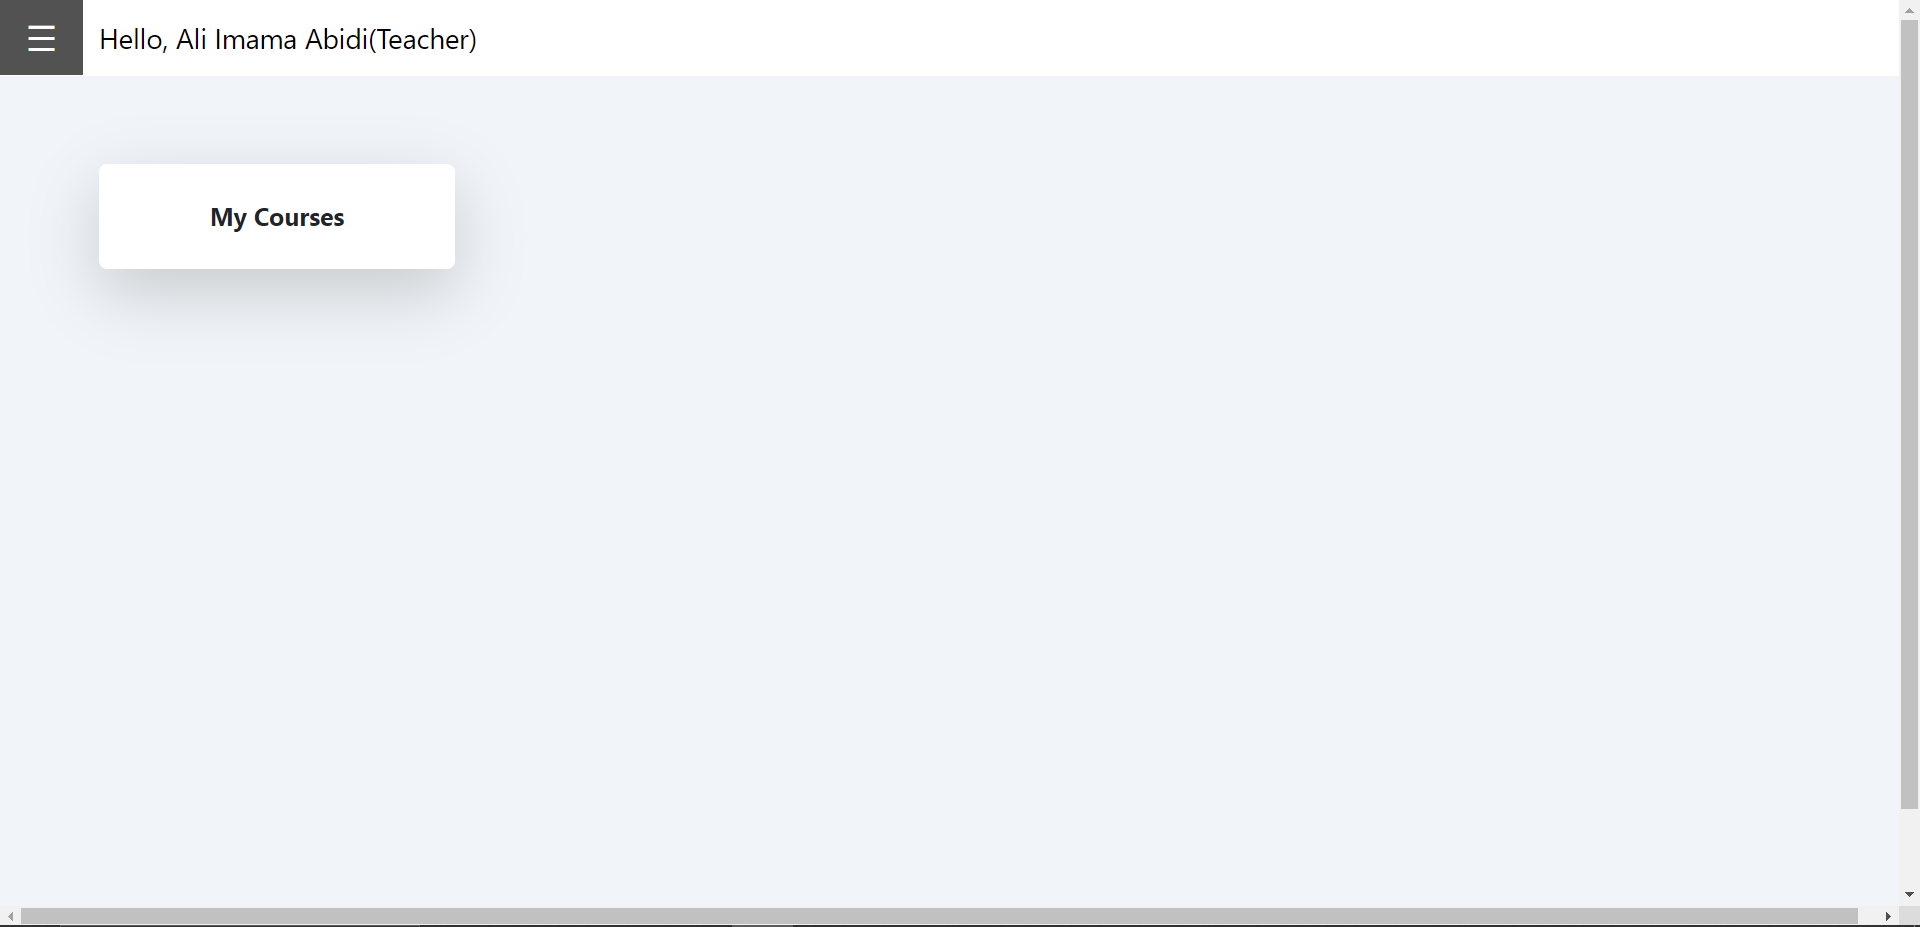
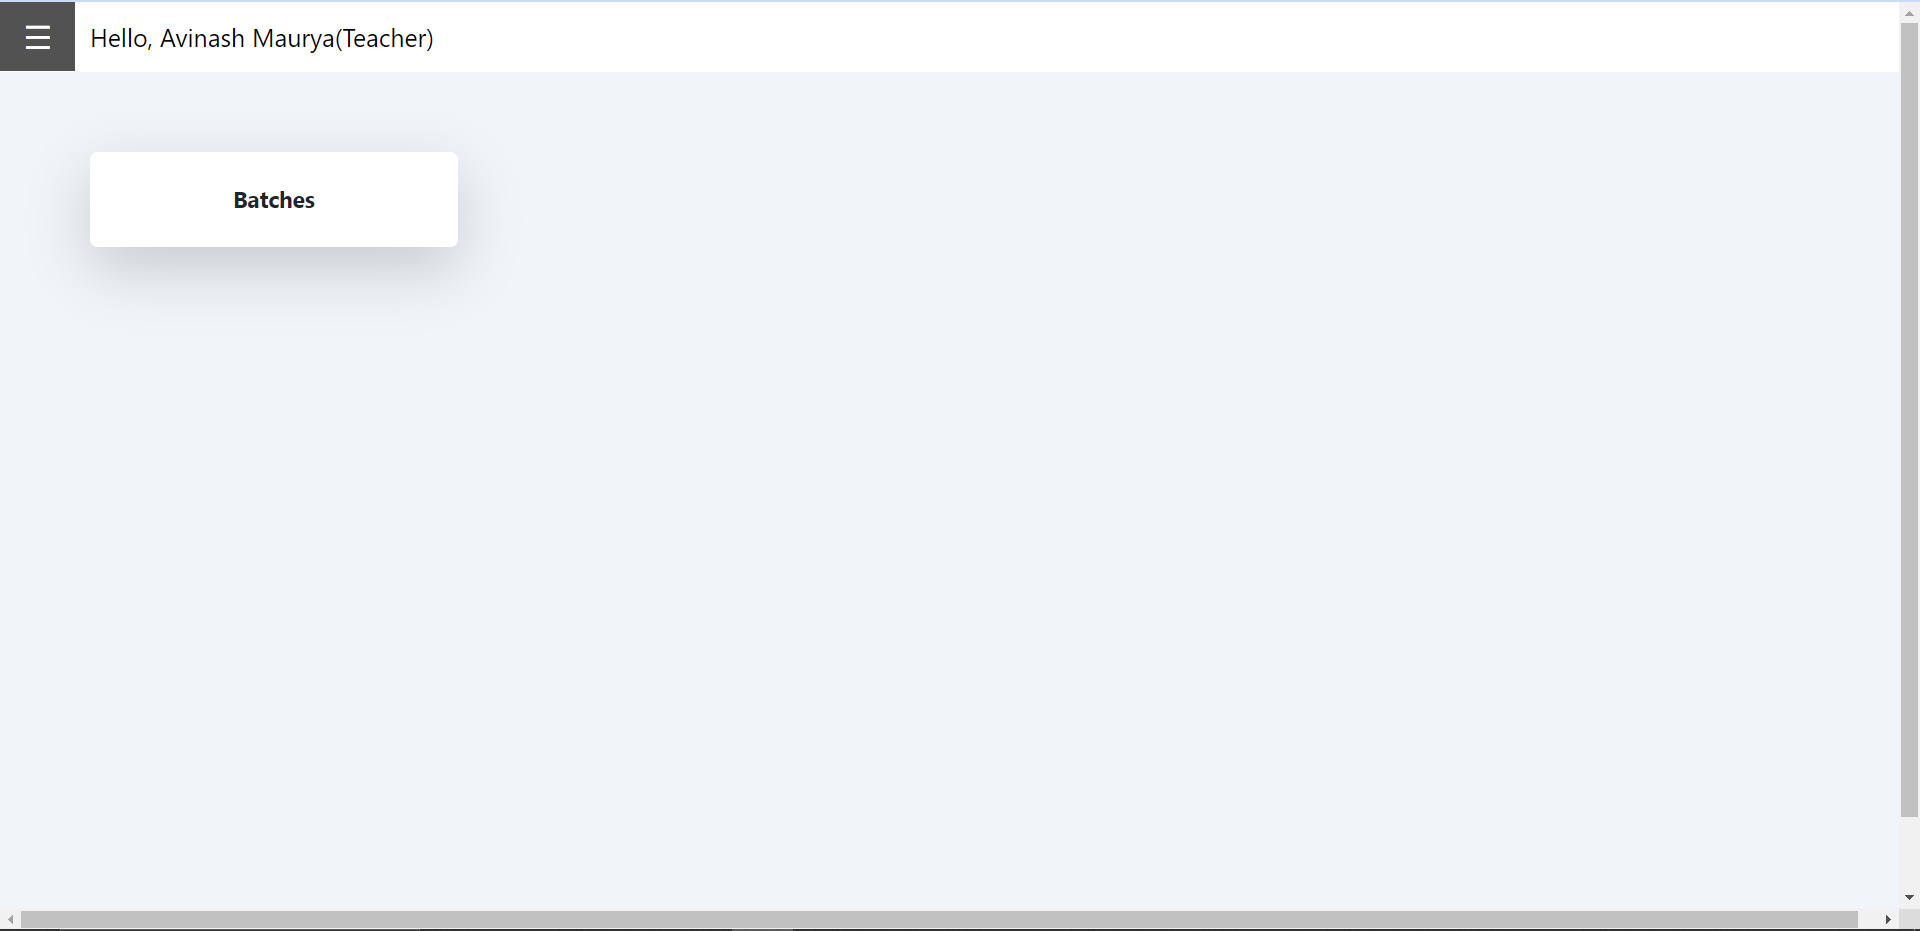
minor ui change

Changed region(s): [[0.0312, 0.2114, 0.25, 0.302], [0.0, 0.0, 0.25, 0.0906], [0.9688, 0.0, 1.0, 0.0302]]

diff --git a/src/components/teacher/TeacherHome.js b/src/components/teacher/TeacherHome.js
@@ -17,7 +17,7 @@ const TeacherHome = () => {
       {location.pathname === "/teacher" && (
             <div className="p-4 sm:p-6 md:p-8 lg:p-10">
               <div className="grid grid-cols-1 sm:grid-cols-2 md:grid-cols-3 lg:grid-cols-4 gap-4">
-                <Card title="My Courses" link="batches" />
+                <Card title="Batches" link="batches" />
               </div>
             </div>
           )}

diff --git a/readme.md b/readme.md
@@ -1,6 +1,10 @@
 # College ERP System Client
 
-This repository contains the client-side implementation of the College ERP (Enterprise Resource Planning) system. The ERP system provides an intuitive and user-friendly interface for admins, teachers, cordinators and students to manage and interact with academic information efficiently.
+This repository contains the client-side implementation of the College ERP (Enterprise Resource Planning) system. The ERP system provides an intuitive and user-friendly interface for admins, teachers, coordinators, and students to manage and interact with academic information efficiently.
+
+## Server
+
+##### [Click here to go to Server Repository](https://github.com/avmaurya07/ERP-System-Server)
 
 ## Project Link
 
@@ -35,7 +39,6 @@ The Admin user in the ERP system has extensive control and management capabiliti
   - Manage courses by viewing and adding them to the system.
   - Manage classes on a batch-wise basis, with options to view and add new classes.
 
-
 ### Coordinator
 
 The Coordinator role in the ERP system is designed to manage specific academic tasks within their assigned department. The following actions can be performed by a Coordinator, depending on the permissions granted for their role:
@@ -49,17 +52,17 @@ The Coordinator role in the ERP system is designed to manage specific academic t
 - **Role-Specific Permissions**
   - Coordinators can perform these actions only if they have been granted the necessary permissions for their role.
 
-
 ### Teacher
+
 - **Courses**: Can view the mapped batches along with the student list.
-- **Lecture Management**: View scheduled lectures and can arrange alternate.
+- **Lecture Management**: View scheduled lectures and can arrange alternatives.
 - **Attendance**: Mark and track student attendance.
 <!-- - **Course Content**: Manage and upload course materials and resources. -->
 <!-- - **Grades and Assignments**: Update and manage student marks and assignments. -->
 
-
 ### Student
-- **Check Timetable**: Check weekwise TimeTable.
+
+- **Check Timetable**: Check week-wise Timetable.
 - **Course Enrollment**: Check enrolled Courses.
 - **Change Password**: Can Change Password.
 
@@ -70,36 +73,36 @@ The Coordinator role in the ERP system is designed to manage specific academic t
 
 ### Change Password
 
-#### It will be same for all the users
+#### It will be the same for all users
 ![Change Password](pictures/46.png)
 
 ### Reset Password Page
 ![Reset Password](pictures/04.png)
 
-### Admin DashBoard
-![Admin DashBoard](pictures/02.png)
+### Admin Dashboard
+![Admin Dashboard](pictures/02.png)
 
 ### Admin Menu
 ![Admin Menu](pictures/15.png)
 ![Admin Menu](pictures/16.png)
 
-### Registor Admin Page
-![Registor Admin Page](pictures/03.png)
+### Register Admin Page
+![Register Admin Page](pictures/03.png)
 
-### Registor Student Page
-![Registor Student Page](pictures/05.png)
-![Registor Student Page](pictures/06.png)
+### Register Student Page
+![Register Student Page](pictures/05.png)
+![Register Student Page](pictures/06.png)
 
-### Registor Teacher Page
-![Registor Teacher Page](pictures/07.png)
-![Registor Teacher Page](pictures/08.png)
+### Register Teacher Page
+![Register Teacher Page](pictures/07.png)
+![Register Teacher Page](pictures/08.png)
 
 ### User List Page
 ![User List](pictures/09.png)
 ![Admin User List](pictures/10.png)
 ![Student User List](pictures/11.png)
 ![Teacher User List](pictures/12.png)
-![Cordinator User List](pictures/13.png)
+![Coordinator User List](pictures/13.png)
 
 #### Roles Modal
 ![Roles Modal](pictures/14.png)
@@ -107,22 +110,23 @@ The Coordinator role in the ERP system is designed to manage specific academic t
 ### School and Department
 ![School and Department](pictures/17.png)
 ![List of Schools](pictures/18.png)
-![School wise list of Departments](pictures/19.png)
+![School-wise list of Departments](pictures/19.png)
 ![Modal to add School and Department](pictures/20.png)
 
 ### Academic Year and Semester
 ![Academic Year and Semester](pictures/21.png)
 ![List of Academic Years](pictures/22.png)
-![Academic Year wise list of Semesters](pictures/23.png)
+![Academic Year-wise list of Semesters](pictures/23.png)
 ![Modal to add Academic Year and Semester](pictures/24.png)
 
 ### Batches
 
 #### This will display only to admin to set school and department
 ![To select School and Department](pictures/25.png)
-#### This will show to both admin and cordinator
+
+#### This will show to both admin and coordinator
 ![To select Year and semester](pictures/26.png)
-![List of batches in that perticular batch](pictures/27.png)
+![List of batches in that particular batch](pictures/27.png)
 ![Modal to add a new batch](pictures/28.png)
 ![View page of selected batch](pictures/29.png)
 ![Edit Students in Selected Batch](pictures/30.png)
@@ -131,7 +135,8 @@ The Coordinator role in the ERP system is designed to manage specific academic t
 
 #### This will display only to admin to set school and department
 ![To select School and Department](pictures/31.png)
-#### This will show to both admin and cordinator
+
+#### This will show to both admin and coordinator
 ![List of courses Available](pictures/32.png)
 ![To add a new course](pictures/33.png)
 
@@ -139,7 +144,8 @@ The Coordinator role in the ERP system is designed to manage specific academic t
 
 #### This will display only to admin to set school and department
 ![To select School and Department](pictures/34.png)
-#### This will show to both admin and cordinator
+
+#### This will show to both admin and coordinator
 ![To Select Batch](pictures/35.png)
 ![List of Classes of selected Batch](pictures/36.png)
 ![Modal to add a new Class](pictures/37.png)
@@ -158,14 +164,14 @@ The Coordinator role in the ERP system is designed to manage specific academic t
 ![Teacher's Batches](pictures/49.png)
 ![Teacher's Batches](pictures/50.png)
 
-### Cordinator's HomePage
+### Coordinator's HomePage
 
-![Cordinator's HomePage](pictures/40.png)
+![Coordinator's HomePage](pictures/40.png)
 
-### Cordinator's Menu
+### Coordinator's Menu
 
-![Cordinator's Menu](pictures/41.png)
-![Cordinator's Menu](pictures/42.png)
+![Coordinator's Menu](pictures/41.png)
+![Coordinator's Menu](pictures/42.png)
 
 ### Student's HomePage
 
@@ -185,20 +191,16 @@ The Coordinator role in the ERP system is designed to manage specific academic t
 
 ![Timetable Page](pictures/52.png)
 
-
-# Server
-
-##### [Click here to go to Server Repository](https://github.com/avmaurya07/ERP-System-Server)
+# Versions 0.9.0
 
 ## Try Now
 
 You can try out the ERP system using the following demo credentials:
 
-- **Version**: 0.8.0
 - **Website**: (https://erp.avmaurya07.tech)
 - **Email**: `test@mail.com`
 - **Password**: `0000`
 - **User Type**: Admin
 
 Feel free to use these credentials to explore the system.
-   (Note- only for this demo email, system is not verifying the password)
+(Note: Only for this demo email, the system is not verifying the password)
